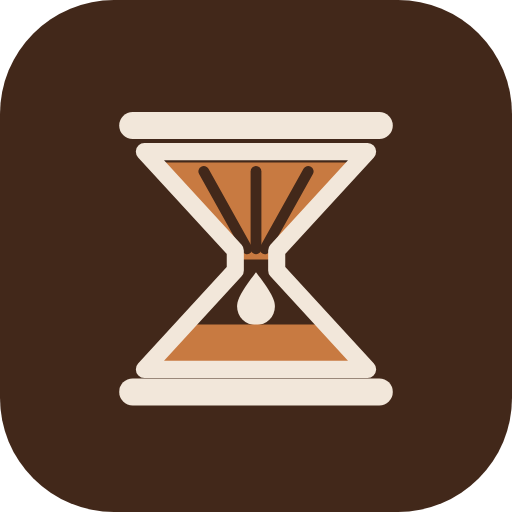
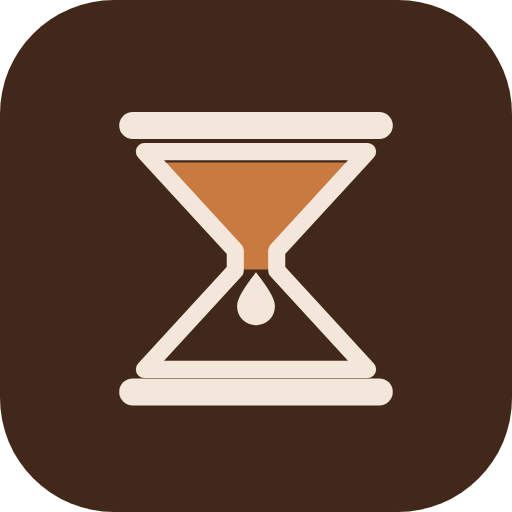
アイコンの中身を減らす (#16)
・上のドリッパーの縦のリブを消し、ひと続きのブラウンにした。
  くびれまで湯で満たしてある
・下に溜まっていたコーヒーを消し、一滴が落ちてくるところだけにした

Claude-Session: https://claude.ai/code/session_01AK1g5wZPx5s5VDHrQyhsVT

Changed region(s): [[0.375, 0.3125, 0.625, 0.5312], [0.3125, 0.625, 0.6875, 0.7188]]

diff --git a/app.js b/app.js
@@ -19,11 +19,11 @@
  *   8. 起動
  * ==================================================================== */
 
-const APP_VERSION = "2.4.0";
+const APP_VERSION = "2.4.1";
 
 /* ホームのロゴの下に #002 の形で出す、mainへマージした回数。
    マージのたびに1つ増やす（この見た目になるまでに何回積んだか） */
-const MERGE_COUNT = 15;
+const MERGE_COUNT = 16;
 
 /* ------------------------------------------------------------------ *
  * 1. 下ごしらえ

diff --git a/sw.js b/sw.js
@@ -1,7 +1,7 @@
 /* 台所で使うアプリなので、電波が届かない場所でも開けるようにしておく。
    ただし更新に気づかないのは困るので、オンラインならネットワークを
    先に見て、落ちたときだけキャッシュを返す */
-const CACHE = "coffeerence-shell-v14";
+const CACHE = "coffeerence-shell-v15";
 const SHELL = [
   "./index.html",
   "./styles.css",
